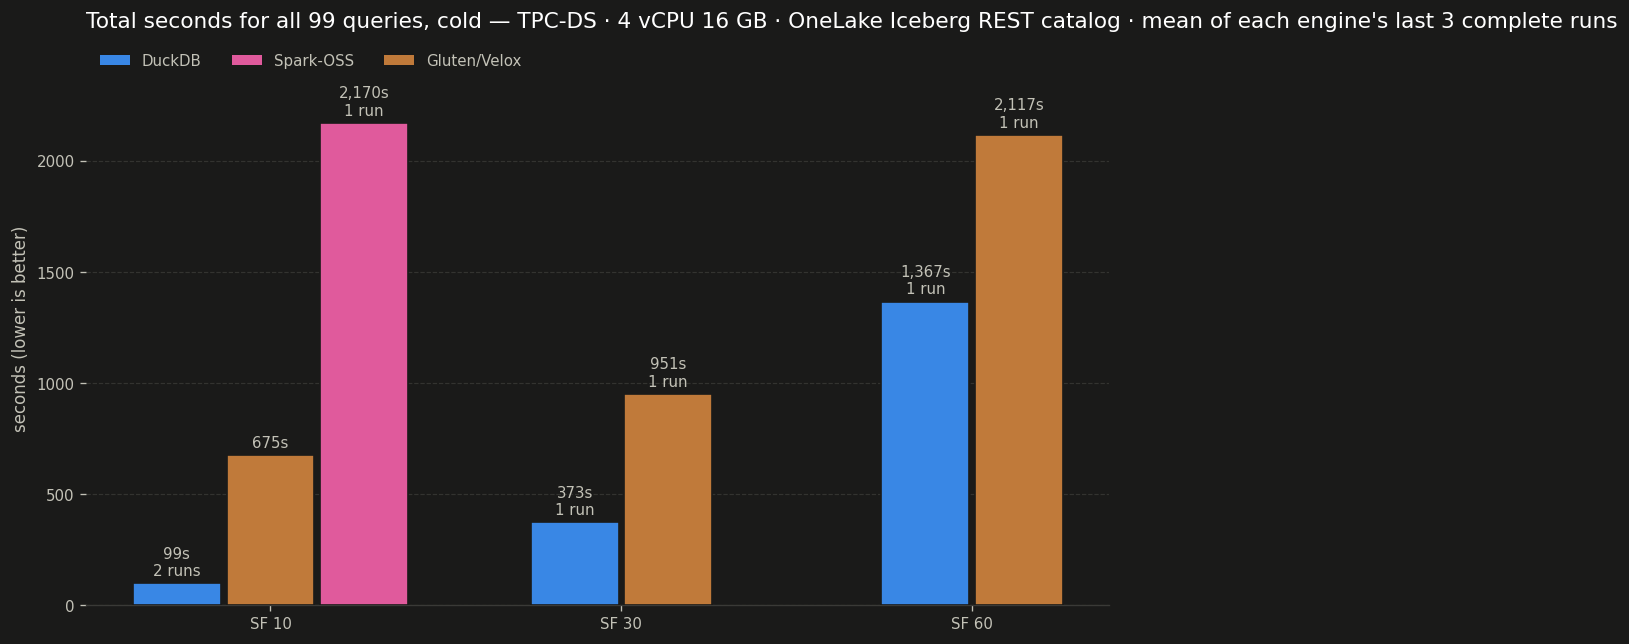
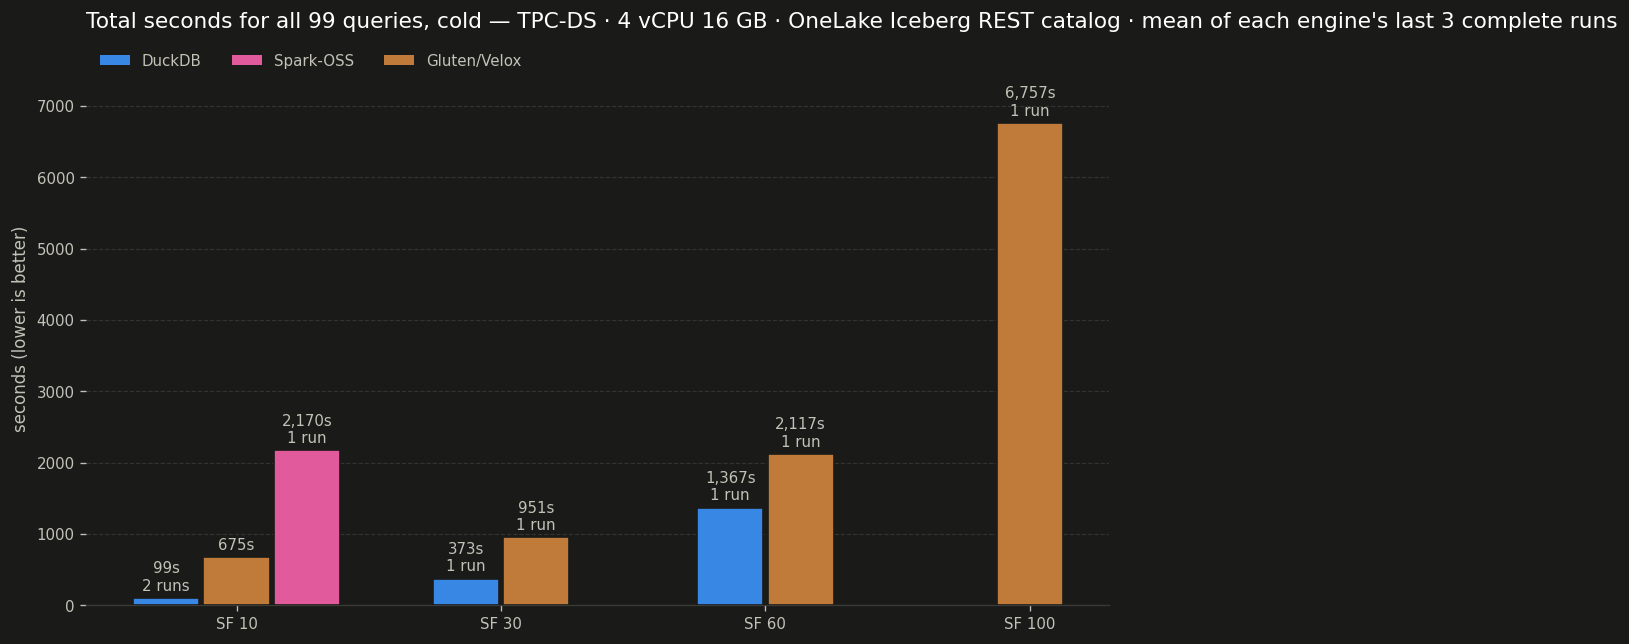
tpcds: totals chart includes SF=100
Gluten's run 36078551544 is the first complete TPC-DS SF=100 run (99/99,
6,757s cold). Charts redrawn from the stored results.

diff --git a/bench/tpcds/config.py b/bench/tpcds/config.py
@@ -87,7 +87,7 @@ PARQUET_MB_PER_SF = 300
 
 # The scale the headline docs are built at, and tpcds.yml's default. SF=60, the largest a 16 GB
 # runner gets through: 20 GiB of parquet that does not fit in memory, so the engines are measured
-# reading OneLake, not their caches. SF=1, 10, 30 and 100 run too and are recorded, not charted.
+# reading OneLake, not their caches. SF=10, 30 and 100 are charted too, in the totals chart only.
 HEADLINE_SF = 60
 
 
@@ -103,7 +103,7 @@ class TpcdsConfig(Config):
     # One pass also halves a run that was already the longest in the repo.
     PASSES = ("cold",)
     # The totals chart shows every scale the suite has been run at, the per-query chart only SF=60.
-    TOTALS_SFS = (10, 30, 60)
+    TOTALS_SFS = (10, 30, 60, 100)
     HEADLINE_SF = HEADLINE_SF
     ENGINES = ENGINES
     TABLES = TABLES

diff --git a/docs/tpcds/RESULTS.md b/docs/tpcds/RESULTS.md
@@ -144,6 +144,6 @@ Seconds, cold pass. `—` means the query failed; see Failures above.
 
 ## History
 
-1,200 timed statements across 9 runs.
+1,400 timed statements across 11 runs.
 Raw data: one immutable JSON per run under [`results/tpcds/`](../../results/tpcds/), flattened to [`data/tpcds_results.csv`](../data/tpcds_results.csv).
 
